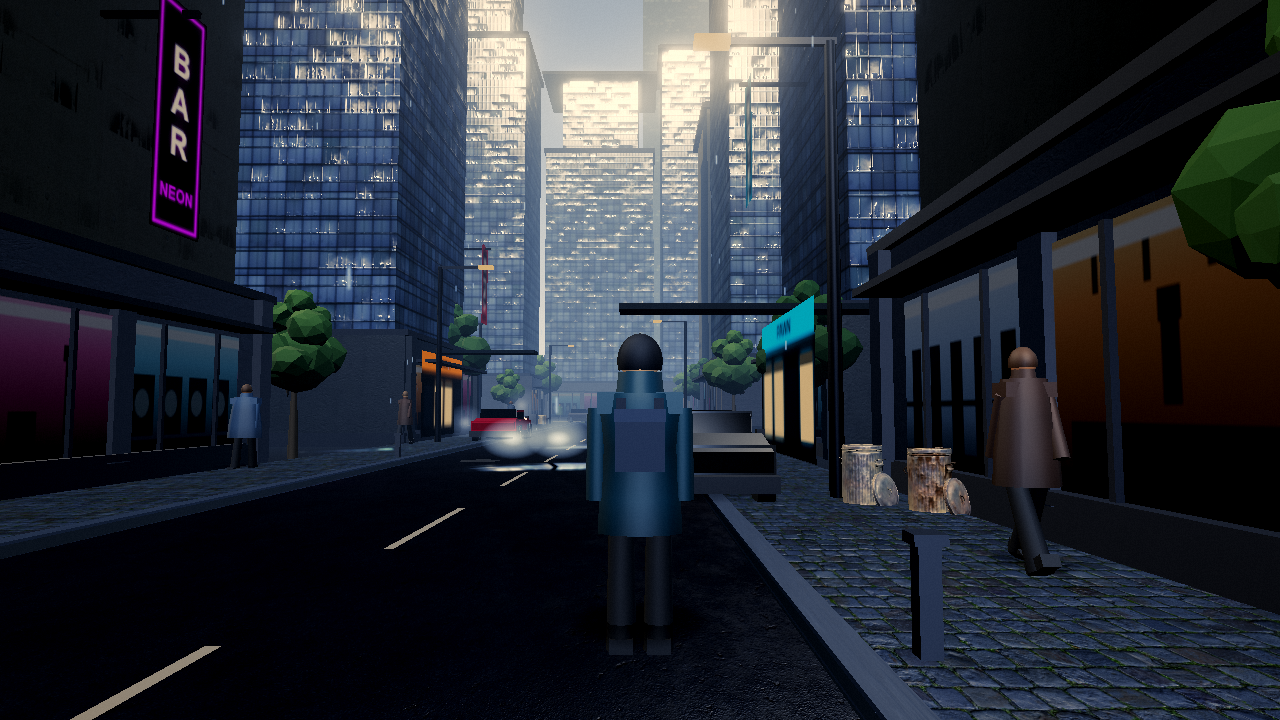
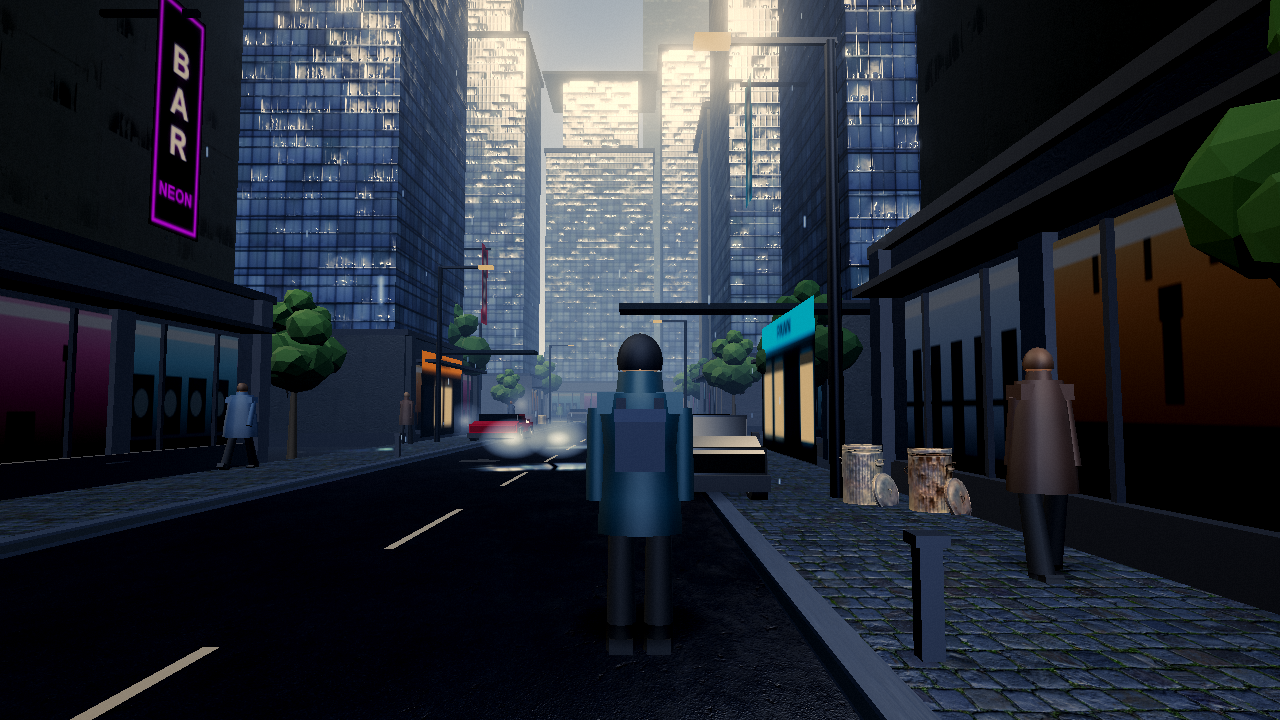
feat(render+sim): five car silhouettes out of one mesh (VGA-019)
Twenty-six cars, one body. At play distance that is the most visible thing
wrong with the traffic: every vehicle on the street is the same object in a
different colour.

A second vehicle mesh costs four draws — paint, glass, trim, wheels — and
the street does not need four more models, it needs to stop repeating one.
So the shared body stretches per instance into five silhouettes: saloon,
van, compact, wagon, low coupe. Because the greenhouse and the glass canopy
are already merged into the same geometry, the roofline changes with the
body instead of floating on top of it.

Wheels take the width of a shape but never its height. An ellipse where a
tyre should be is worse than having no variety at all.

`shape` lives in sim car data next to `paint`, not derived from the render
slot index, so a car keeps its body for life rather than changing shape
whenever its instance slot is reused by a respawn.

Draws: 156 peak / 140 mode on the same scripted sweep — unchanged. Five
bodies for nothing.

Still open on VGA-019: taxi, bus and bike, and the fact that these are five
stretches of one saloon rather than five models.

Evidence: slice-032-traffic-day.png, slice-032-traffic-night.png.

diff --git a/src/render/traffic.js b/src/render/traffic.js
@@ -191,12 +191,30 @@ const poolGeo = mergeGeometries([lensGeo(-POOL_LENS_X), lensGeo(POOL_LENS_X)]);
 const TAIL_DIM = new THREE.Color(0x7a140e);
 const TAIL_BRAKE = new THREE.Color(0xff2a20);
 
-function placeOnCar(dummy, car, yOff) {
+// Five bodies out of one. A second vehicle mesh would cost four draws — a
+// paint pass, a glass pass, a trim pass, a wheel pass — and the street does
+// not need four more models, it needs to stop being one model repeated.
+// Stretching the shared body per instance gives a van, a compact, a long
+// wagon and a low coupe for nothing, because the greenhouse and the glass
+// ride the same numbers and the roofline changes with them.
+// Index matches SHAPE_COUNT in sim/street.js.
+const CAR_SHAPES = [
+  [1.00, 1.00, 1.00],  // saloon
+  [1.05, 1.24, 1.14],  // van
+  [0.93, 0.95, 0.84],  // compact
+  [1.02, 1.05, 1.21],  // wagon
+  [1.07, 0.87, 1.03],  // coupe
+];
+
+function placeOnCar(dummy, car, yOff, roundWheels = false) {
+  const [sx, sy, sz] = CAR_SHAPES[car.shape ?? 0];
   dummy.position.set(car.x ?? car.lane, yOff, car.z);
   if (car.yaw !== undefined) dummy.rotation.set(0, car.yaw, 0);
   else if (car.axis === 'x') dummy.rotation.set(0, car.dir > 0 ? Math.PI / 2 : -Math.PI / 2, 0);
   else dummy.rotation.set(0, car.dir > 0 ? 0 : Math.PI, 0);
-  dummy.scale.set(1, 1, 1);
+  // Wheels widen their track with the body but never squash: an ellipse
+  // where a tyre should be is worse than no variety at all.
+  dummy.scale.set(sx, roundWheels ? 1 : sy, sz);
   dummy.updateMatrix();
   return dummy.matrix;
 }
@@ -244,9 +262,9 @@ export function updateTraffic(rig, street, camera = null) {
   street.cars.forEach((c, i) => {
     const m = placeOnCar(dummy, c, 0);
     bodies.setMatrixAt(i, m);
-    wheels.setMatrixAt(i, m);
     glass.setMatrixAt(i, m);
     trim.setMatrixAt(i, m);
+    wheels.setMatrixAt(i, placeOnCar(dummy, c, 0, true));
     if (c.parked) {
       // Dark and quiet: parked cars wear no headlight glow.
       dummy.scale.set(0, 0, 0);

diff --git a/src/sim/street.js b/src/sim/street.js
@@ -21,6 +21,11 @@ export const STREET_HALF = 100;
 const COAT_COLORS = [0x1c2733, 0x33231c, 0x1c3327, 0x2b1c33, 0x3d2f16, 0x101418, 0x5c1f2e, 0x1f4d5c, 0x2e3d4d, 0x4d3a2e, 0x7a2a3a, 0x2a6a7a];
 export const SKIN_TONES = [0x9a7b62, 0x7a5a44, 0x5a4030, 0xc4a080, 0x8a6248];
 const CAR_PAINTS = [0x7a1020, 0x10233d, 0x3d3d42, 0x0f3d2e, 0x4d4d10, 0x222222];
+// How many body silhouettes the render layer knows how to build. A street
+// where every car is the same shape is a toy car park, and the shape has to
+// live here with the paint so a car keeps it for life instead of changing
+// body every time its render slot is reused.
+const SHAPE_COUNT = 5;
 const FIRST = ['Mara', 'Kaito', 'Iris', 'Dario', 'Yuki', 'Petra', 'Sol', 'Nadia', 'Rook', 'Esen', 'Milo', 'Aya', 'Corv', 'Lena', 'Juno', 'Theo'];
 const LAST = ['Vane', 'Kuro', 'Dax', 'Mori', 'Lark', 'Voss', 'Quill', 'Reyes', 'Hale', 'Ito', 'Fenn', 'Okafor', 'Rill', 'Sable', 'Thorn', 'Vale'];
 const JOBS = [
@@ -98,6 +103,7 @@ function makeNSCar(rng, i) {
     z: -STREET_HALF + ((i * 37) % 12) / 12 * STREET_HALF * 2,
     speed: 7 + rng.sim() * 3,
     paint: CAR_PAINTS[(i * 5 + 1) % CAR_PAINTS.length],
+    shape: (i * 3 + 1) % SHAPE_COUNT,
   };
 }
 
@@ -115,6 +121,7 @@ function makeEWCar(rng, i) {
     dir,
     speed: 7 + rng.sim() * 3,
     paint: CAR_PAINTS[(i * 5 + 1) % CAR_PAINTS.length],
+    shape: (i * 3 + 2) % SHAPE_COUNT,
     xMin,
     xMax,
   };
@@ -144,6 +151,7 @@ export function createStreet(seed) {
       speed: 0,
       parked: true,
       paint: CAR_PAINTS[(k * 5 + 3) % CAR_PAINTS.length],
+      shape: (k * 3) % SHAPE_COUNT,
     });
   });
   return {

diff --git a/docs/VISUAL-GAP-ACTIONS.md b/docs/VISUAL-GAP-ACTIONS.md
@@ -91,7 +91,7 @@ before reinstating anything that was removed.
 
 ## D. Cars (photographable traffic)
 
-- **VGA-019 Body variants.** Taxi, van, truck, bus, bike silhouettes + neon underglow option (instanced, shared materials). Done when: `slice-009-day` angle re-shot shows 4+ shapes. Draws: +3..5.
+- **VGA-019 Body variants.** ⏳ PARTIAL (slice 032: a second vehicle mesh costs four draws — paint, glass, trim, wheels — and the street did not need four more models, it needed to stop being one model repeated twenty-six times. The shared body now stretches per instance into five silhouettes: saloon, van, compact, wagon, low coupe. The greenhouse and the glass canopy ride the same numbers, so the roofline changes with the body instead of floating on it, and wheels take the width but never the height, because an ellipse where a tyre should be is worse than no variety. `shape` lives in sim car data beside `paint`, so a car keeps its body for life instead of changing shape when its render slot is reused. Evidence `slice-032-traffic-day.png` + `slice-032-traffic-night.png`. 156 peak, +0 draws. Taxi, bus and bike are still missing, and these are all stretches of one saloon — a genuinely different mesh still belongs here.) Draws: +3..5.
 - **VGA-020 Close-up detail.** ⏳ PARTIAL (slice 026: cars had no windows. The painted greenhouse box in `bodyGeo` enclosed the glass canopy on every side and the windshield was painted body colour too, so the whole fleet — traffic, hero, pursuit — rendered as one moulded lump. The greenhouse is now a frame: belt, roof and four pillars in paint, one glass shell holding cabin + raked windshield in the openings. Bumpers, mirrors, pillars, rocker sills and wheel-arch flares moved to a shared dark trim mesh, one instanced draw for all traffic. Evidence `slice-026-street-night.png` + `slice-026-street-day.png` + `slice-026-profile-night.png`. Measured 158 draws steady, 164 peak — +2 over the same sweep before. Slice 029 finished the job the chase camera exposed: the roof overhang hid the backlight from above, so the roof was shortened and a raked rear window added — the view the player holds all game was a slab of paint. The glass was also mirroring `scene.environment` (a PMREM of RoomEnvironment, far brighter than 1.0) into a blank white block at envMapIntensity 2.2; bisected against 0, it now sits at 0.22 and reads as tinted glass. Tyre and rim merged into one vertex-coloured mesh, which also removed a pair of exactly-coincident z-fighting hub cylinders. Evidence `slice-029-drive-night.png`. Wiper arcs, plates, panel gaps and liveries still open.) Done when: hero-car orbit close-up survives. Draws: +2, then -3 reclaimed.
 - **VGA-021 Paint that answers neon.** Clearcoat/env response so sign wash lands on bodies (fixes maroon-under-magenta). Done when: `slice-007-pursuit` angle re-shot, paint picks up wash. Draws: +0.
 - **VGA-022 Police build.** Push bar, livery + POLICE lettering, spotlight, alternating red/blue wash thrown on street and facades; wipers on all fleets. Done when: pursuit frame paints the towers red/blue. Draws: +1..2.
